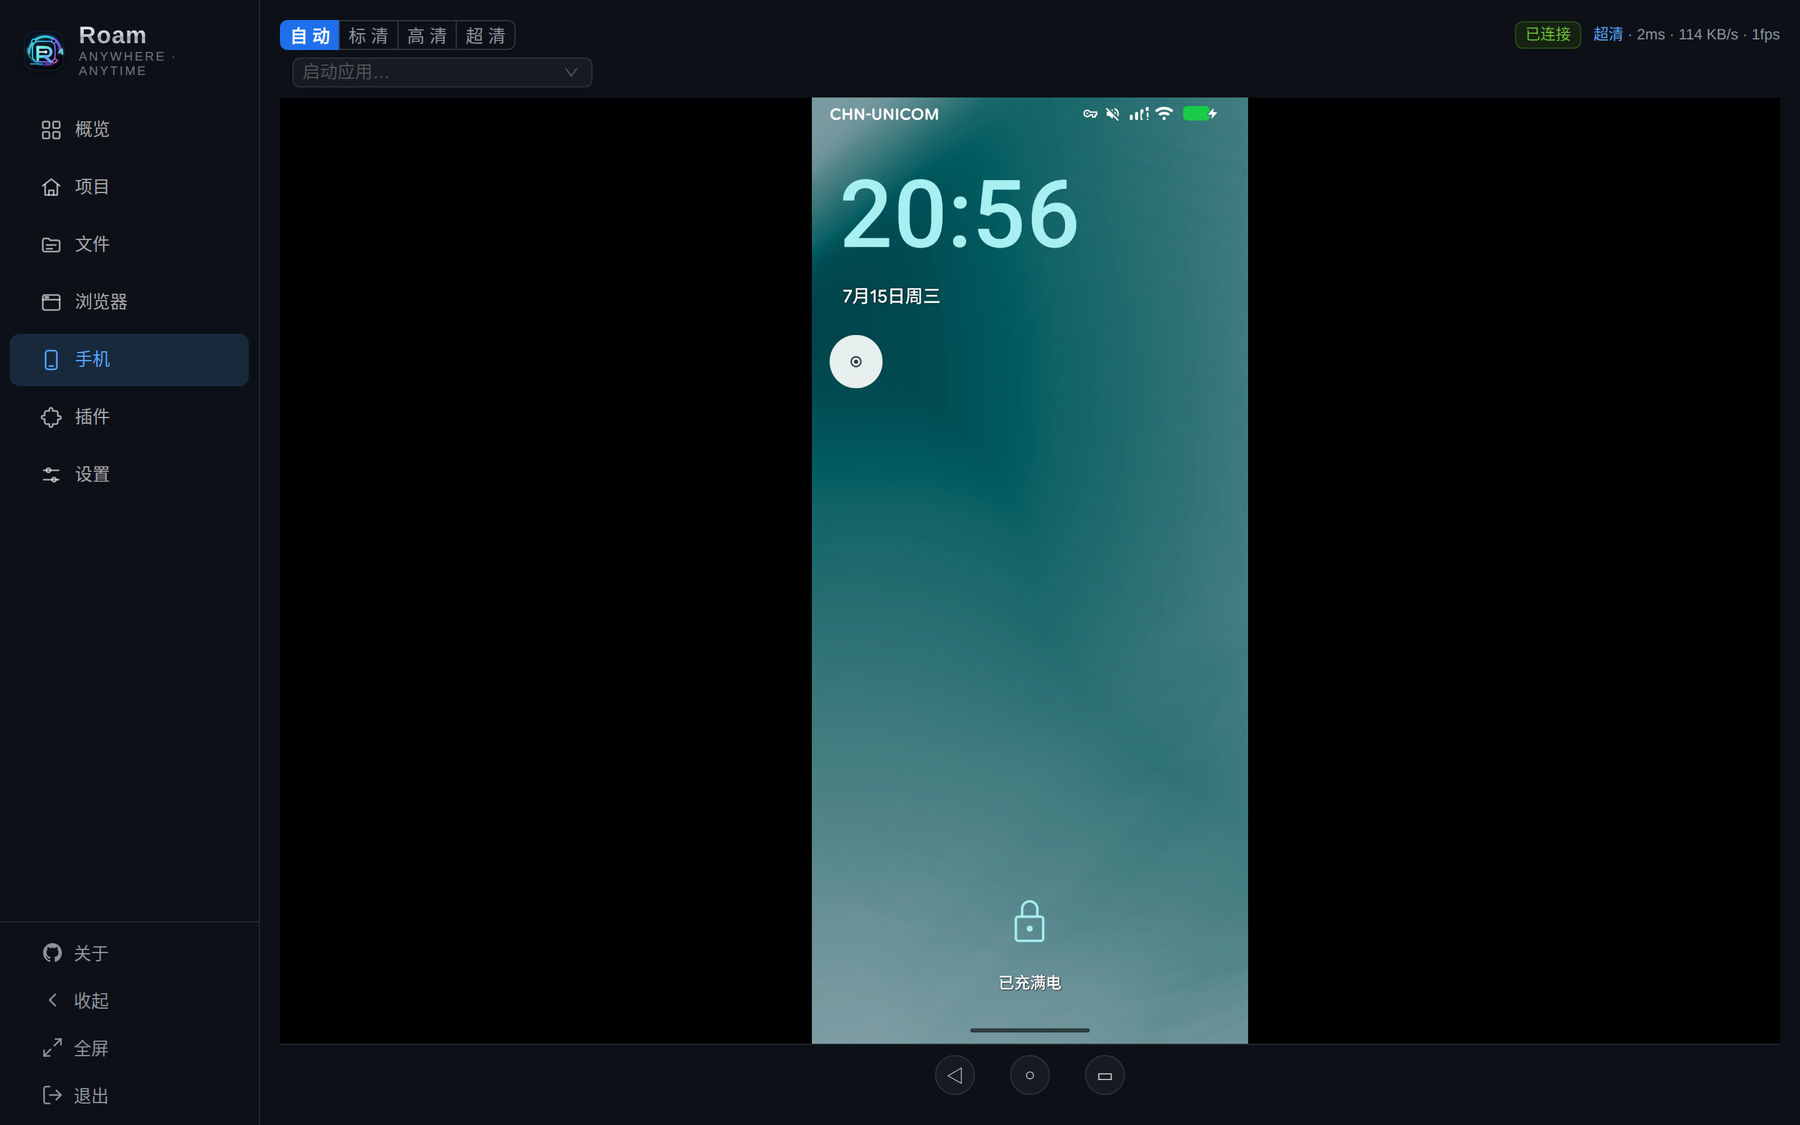
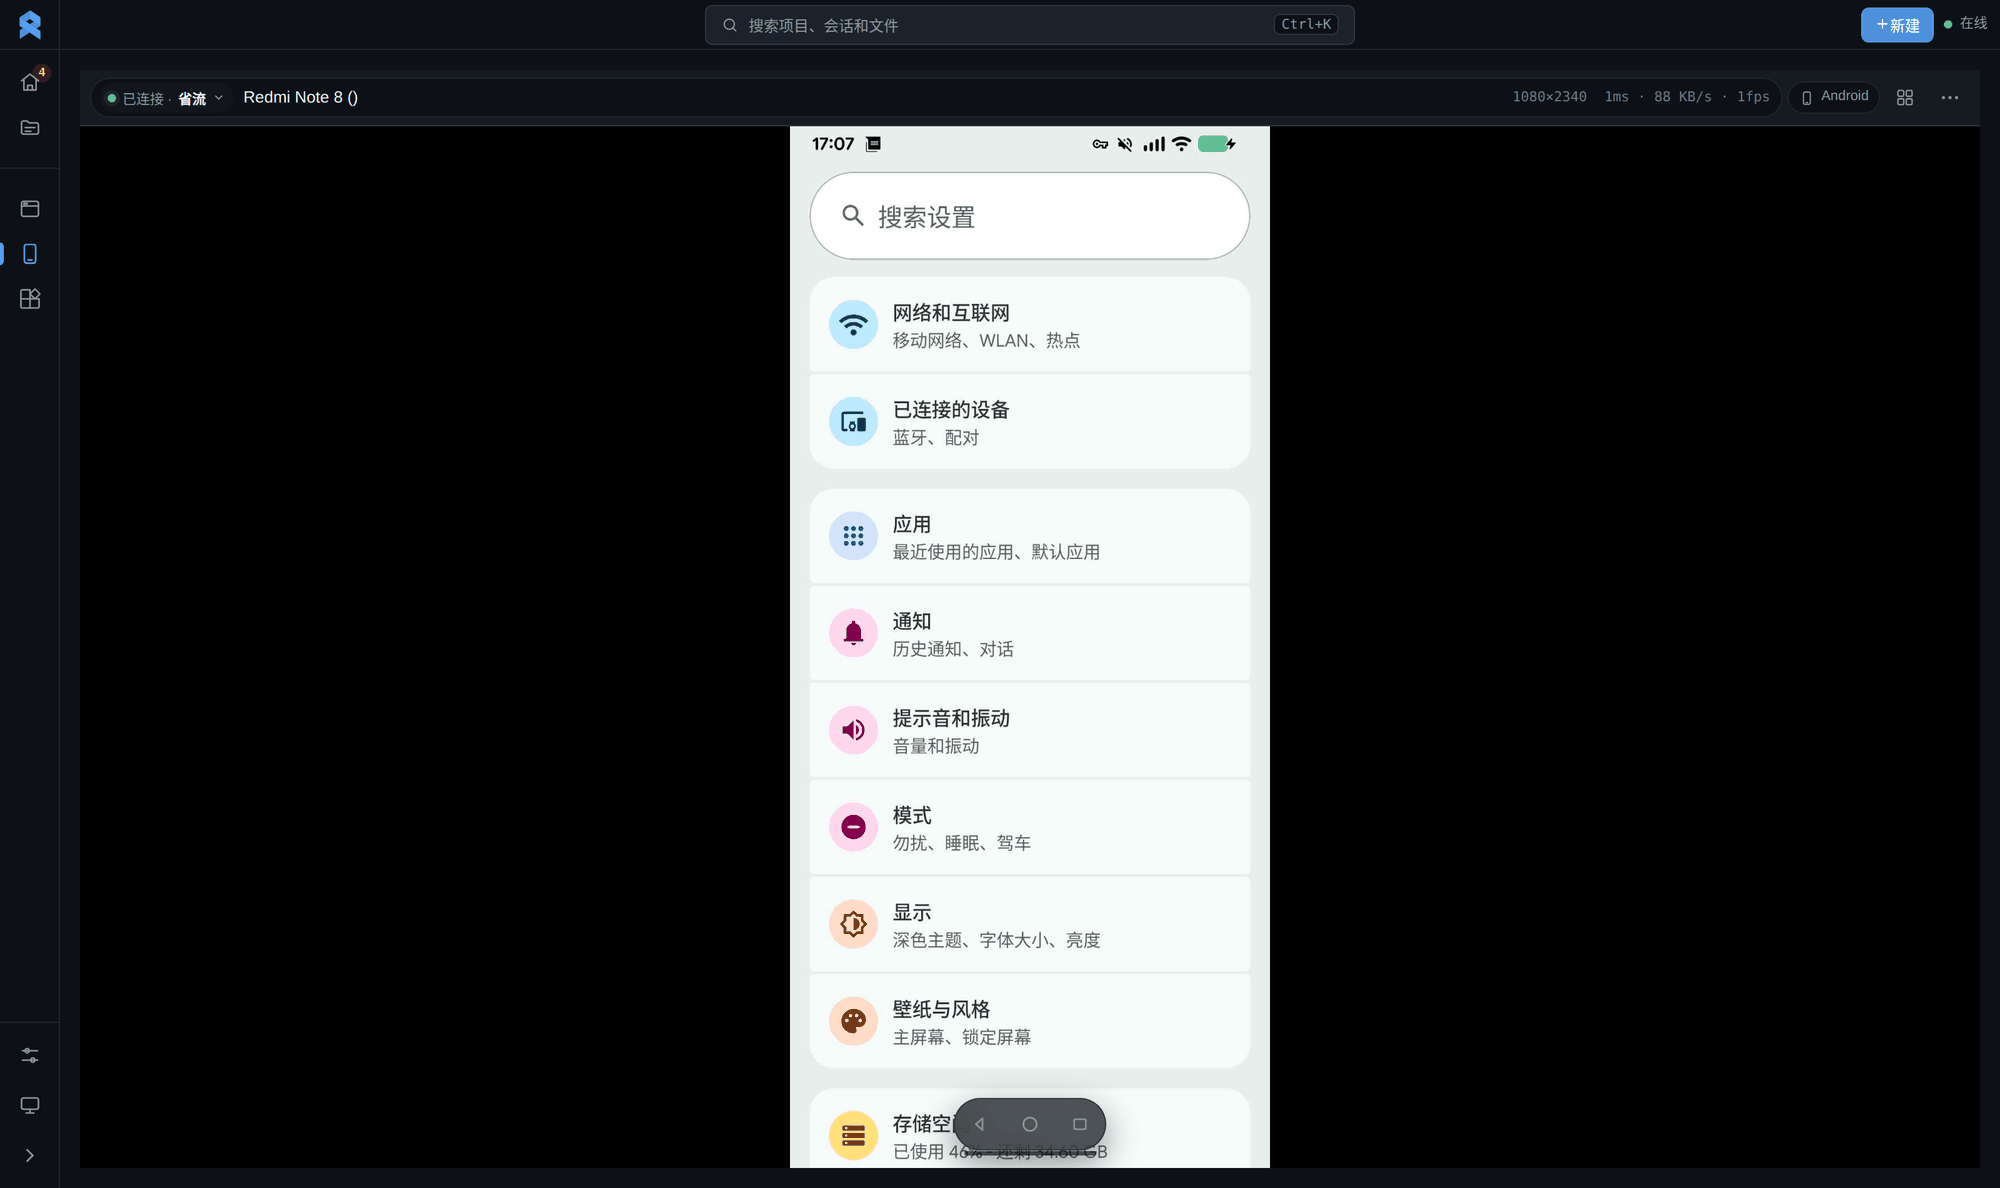
docs: README 大改 —— 按现在的系统重写 + 全部截图重拍 (#202)
* docs: README 大改 —— 按现在的系统重写 + 全部截图重拍

原来那版 README 停在 7 月 21 日：截图是三周前的界面，而这三周里工作台、
对话渲染、终端标签、设置页、手机底栏全重做过一遍；更要紧的是**多机**
（#187/#199/#200/#201）在 README 里一个字都没有。

- 截图 24 张全部重拍，中英各一套，1:1 真实数据：三个 demo 仓库 + 真的
  Claude Code / Codex 在里面干活（对话图里那份 diff 和测试结果是真跑出来的）。
  新增 6 个页面：工作台、Agent 对话、中心页、设置、文件工作区、手机会话坞。
- 新增「不止一台机器」一节：中心是同一个二进制的另一种模式，机器出站拨号
  所以 NAT 后面不用做端口转发，附两段最小 config.yaml。
- 「读 Agent 而不是读终端」写进核心能力——这是这三周最大的体验变化。
- 安全一节补上接入令牌的一次性与哈希存储、诊断口只绑回环。
- 删掉 project.*.png（已被 workbench.* 取代）。
- 图做了 256 色量化：13.7MB → 5.1MB，UI 平色块看不出差别。

截图取自隔离的 demo 实例（独立 ROAM_HOME + 独立 tmux socket + 造出来的
shop-api/web-console/etl-pipeline 三个仓库），不含任何真实项目信息。

* docs: 截图改用仓库内相对路径，不走 jsDelivr

jsDelivr 的 @main 链接有两个坑：新加的图在合并前一直 404；沿用旧文件名的
11 张（hero/terminal/swarm/browser/phone/mobile-*）即使合并了也会继续吐
7 月那批旧图——边缘缓存 s-maxage=43200（12 小时）、浏览器 max-age 7 天，
页面会新旧混排。

相对路径由 GitHub 直接从当前提交取图，改一次生效一次，也不用再记得去 purge。

diff --git a/README.md b/README.md
@@ -2,47 +2,47 @@
 
 **English** | [Simplified Chinese](README.zh-CN.md)
 
-> **Turn your development machine into an always-on AI coding workstation.**
+> **Turn your development machines into an always-on AI coding workstation.**
 
-**Roam** lets you **connect back to your own development machine from anywhere,
+**Roam** lets you **connect back to your own development machines from anywhere,
 at any time, using a phone, tablet, or laptop.** You can keep coding, run tests,
 watch logs, debug in a browser, and supervise Claude Code, Codex, or other AI
-coding agents while the real work continues on the development machine.
+coding agents while the real work continues on the machine that owns it.
 
 It solves a concrete problem: **complex development work should not be broken
 apart by your device, network, or schedule.** Your code, terminals, dev
 services, browser, and agents all keep running on the development machine. You
 can switch devices, disconnect, leave your desk, and come back to the same
-working scene. Unless you close them intentionally, the work on the development
-machine does not disappear because a local terminal exited, a browser tab
-closed, or a laptop lid shut.
+working scene. Unless you close them intentionally, the work does not disappear
+because a local terminal exited, a browser tab closed, or a laptop lid shut.
 
 **Roam at a glance:**
 
 - **Everything is organized by project**: each repository becomes a mission
   control with its tasks, worktrees, agent formations, and activity — the
-  overview is a battle map of what needs you across all projects.
+  workbench is a battle map of what needs you across all projects.
 - **Remote development without losing the scene**: check progress from a phone,
   add instructions from a tablet, take over coding from a laptop, while the
   working context stays on the development machine.
 - **Long tasks keep running**: tests, builds, migrations, logs, and debugging
   sessions survive lid closes, network drops, and device changes.
-- **The workspace stays alive**: terminals, services, browser state, and agent
-  conversations remain on the development machine unless you close them.
-- **AI agents become manageable**: describe a task on the project page and an
-  agent starts working in an isolated worktree; Claude Code, Codex, and others
-  can be monitored and given follow-up instructions at any time.
+- **AI agents become manageable**: describe a task and an agent starts working
+  in an isolated worktree; watch it as a terminal or as a rendered conversation,
+  and send follow-ups from any device.
 - **Complex work can be orchestrated**: race two agents on the same task, or
   split a goal across a swarm with dependencies, a board, and a shared feed.
+- **More than one machine**: a laptop, a workstation, and a Jetson can all sit
+  behind one console — switch between them from the same window, and one page
+  tells you whether they are all healthy.
 
-Roam is not another cloud IDE. It connects to your real development machine and
+Roam is not another cloud IDE. It connects to your real development machines and
 puts projects, terminals, browser, files, tasks, and AI agents into a remotely
 controllable workspace. What you see is a console; behind it is still the
 development environment and toolchain you already use.
 
-![Roam — the same development machine, from a laptop and from a phone](https://cdn.jsdelivr.net/gh/ybz21/Roam@main/docs/screenshots/hero.en.png)
+![Roam — the workbench on the left, a live Claude Code session on the right](docs/screenshots/hero.en.png)
 
-<sub>Remote access to one development machine: the desktop console and the phone show the same projects, running tasks, and live agent state.</sub>
+<sub>One window: what needs you across every project, and the agent that is working right now.</sub>
 
 ## Core Capabilities
 
@@ -55,68 +55,93 @@ development environment and toolchain you already use.
 - **Any device is the same desk**: open the Web console from a phone, tablet, or
   laptop and land back in the exact project you left — zero install, no native
   app to update.
-- **Long tasks don't need you watching**: builds, migrations, log tailing, and
-  agent runs keep going in the background; the overview shows which project
-  needs input and which is still grinding.
-- **Describe a task, an agent takes it**: type what you want on the project
-  page, and Claude Code or Codex starts in an isolated worktree on its own
-  branch — race two agents on the same task and keep the better result.
+- **Describe a task, an agent takes it**: type what you want, and Claude Code or
+  Codex starts in an isolated worktree on its own branch — race two agents on the
+  same task and keep the better result.
+- **Read agents, don't decode them**: a running Claude Code or Codex session can
+  be read as a real conversation — messages, diffs, and folded tool runs — or as
+  the raw terminal, whichever you need at that moment.
 - **Formations split one goal across many hands**: hand the API to one member,
   the frontend to another, tests to a third — a shared board and message feed
   keep them in sync, and dependencies unlock the next step automatically.
-- **The debugging browser lives on the dev machine too**: login state,
-  screenshots, and repro flows stay put, so remote UI debugging picks up right
-  where it was.
+- **The debugging browser and a real phone live on the dev machine too**: login
+  state, screenshots, and repro flows stay put, so remote UI debugging picks up
+  right where it was.
 - **Built for humans and agents to share one workspace**: take over from the Web
   console by hand, or let agents read state, collect output, and keep pushing.
 
 ## Screenshots
 
-**A project is mission control.** Describe a task at the top and an agent starts
-in an isolated worktree; below it, every running task with its agent, diff
-count, and state — plus Worktree, Formations, and Activity tabs for the same
-repository.
+**The workbench answers one question: what needs me?** Projects that are waiting
+on you come first, each with its running tasks, worktree count, and swarms —
+then recent activity across every repository.
 
-![Project page: task launcher, running agents, worktrees, and formations](https://cdn.jsdelivr.net/gh/ybz21/Roam@main/docs/screenshots/project.en.png)
+![Workbench: what needs you, per-project tasks, and recent activity](docs/screenshots/workbench.en.png)
 
-**One view for the agent, its terminal, and the file tree.** Watch Claude Code or
-Codex work, browse and open files beside it, and type on the mobile key bar when
-you're on a phone.
+**Read the agent, not the terminal.** The same Claude Code or Codex session can
+be rendered as a conversation: messages, code blocks, diffs, and folded tool runs,
+with a status bar for mode, context use, and elapsed time — and a box to reply in.
 
-![Terminal with a running agent and the file tree](https://cdn.jsdelivr.net/gh/ybz21/Roam@main/docs/screenshots/terminal.en.png)
+![A Claude Code session rendered as a conversation](docs/screenshots/chat.en.png)
 
-**A formation, at a glance.** Launched from the project's Formations tab: a live
-topology of every member, a shared collaboration wall (plaza), a drag-to-flow
-board, and an inbox of items waiting for review — a goal split across agents
-stays legible.
+**Or take the raw terminal, because it is a real tmux session.** Full TUI
+fidelity, tabs that persist per machine, a file drawer and Git panel one click
+away, and — on a phone — a key bar and voice input.
 
-![Swarm dashboard: topology, plaza, and board](https://cdn.jsdelivr.net/gh/ybz21/Roam@main/docs/screenshots/swarm.en.png)
+![The same session as a live terminal, with the toolbar and mobile key bar](docs/screenshots/terminal.en.png)
+
+**A formation, at a glance.** A live topology of every member, a shared
+collaboration wall, a drag-to-flow board, and an inbox of items waiting for
+review — a goal split across agents stays legible.
+
+![Swarm dashboard: topology, plaza, and board](docs/screenshots/swarm.en.png)
+
+**Many machines, one console.** The hub page says in one line whether the hub is
+healthy, lists every machine with its latency, CPU, memory, and session count,
+and keeps a log of what happened lately — who dropped, who came back, and how
+long they were gone.
+
+![Hub page: hub health, machines, and the recent event log](docs/screenshots/hub.en.png)
+
+**Settings you can actually find things in.** Search across every setting by
+name, description, or key; categories are grouped by scope — what follows you
+between machines, what belongs to this machine, and what applies to the whole
+cluster.
+
+![Settings: search, category tree, and one page per category](docs/screenshots/settings.en.png)
+
+**Browse and edit files without leaving the console.** Folders and files in two
+resizable columns, a preview on hover, and drag a path straight into a terminal
+or an agent prompt.
+
+![File workspace: folder column, file column, and preview](docs/screenshots/files.en.png)
 
 **Drive a real browser from the console.** The dev machine's Chrome is mirrored
 into the console — open tabs, navigate, click, and type. Debug a web app, keep a
 login session, or let an agent reproduce a flow, all on the development machine.
 
-![Browser mirror: a live Chrome tab driven from the console](https://cdn.jsdelivr.net/gh/ybz21/Roam@main/docs/screenshots/browser.en.png)
+![Browser mirror: a live Chrome tab driven from the console](docs/screenshots/browser.en.png)
 
 **Control a real phone from the console.** Mirror an Android device over adb — the
 live screen, streaming stats, and remote nav bar — to reproduce mobile flows or
 check an app right next to your terminals.
 
-![Phone mirror: a live Android device inside the console](https://cdn.jsdelivr.net/gh/ybz21/Roam@main/docs/screenshots/phone.en.png)
+![Phone mirror: a live Android device inside the console](docs/screenshots/phone.en.png)
 
 ## Mobile: work from anywhere
 
 **Your whole workspace fits in a phone.** Open the console in any mobile browser —
 no app to install — and land back in the same projects, tasks, and agents.
-Check progress on the train, nudge an agent from the couch, take over from a café.
+A bottom bar carries the five places you actually go, and a session dock keeps the
+running agent one tap away.
 
-![Roam on a phone: overview battle map and a project page](https://cdn.jsdelivr.net/gh/ybz21/Roam@main/docs/screenshots/mobile-office.en.png)
+![Roam on a phone: the workbench and the session dock](docs/screenshots/mobile-office.en.png)
 
-**Talk to an agent from your phone.** Open a session and chat with Claude Code or
-Codex right in the terminal — the mobile key bar and send button let you type
-follow-ups, review the reply, and keep the task moving without a laptop.
+**Talk to an agent from your phone.** Open a session and read it as a
+conversation — the same cards, diffs, and status bar as the desktop — then type or
+dictate a follow-up and keep the task moving without a laptop.
 
-![Chatting with Claude Code on a phone](https://cdn.jsdelivr.net/gh/ybz21/Roam@main/docs/screenshots/mobile-chat.en.png)
+![Chatting with Claude Code on a phone](docs/screenshots/mobile-chat.en.png)
 
 ## Why It Exists
 
@@ -130,6 +155,8 @@ starts to hit many breakpoints:
 - long tasks should keep running while you are offline
 - you need to quickly understand, per project, what is still running and what
   is waiting for you
+- and once there is more than one machine, you need to know which one a session
+  is even on
 
 Roam treats the development machine as the single real working scene. The server
 keeps work alive, and the Web console lets you reconnect from any device. When
@@ -142,12 +169,12 @@ agent orchestration.
 2. Open the Web console from a phone, tablet, or another computer.
 3. Open a project, enter an existing task or terminal, and continue the
    previous working scene.
-4. Describe a new task on the project page and let Claude Code, Codex, or
-   another agent run it in an isolated worktree on the development machine.
+4. Describe a new task and let Claude Code, Codex, or another agent run it in an
+   isolated worktree on the development machine.
 5. Leave the browser or close your local terminal; terminals, services, logs,
    and agents keep running on the development machine.
-6. Come back later from any device: the overview shows which projects need
-   input, and each project page shows where its tasks got to.
+6. Come back later from any device: the workbench shows which projects need
+   input, and each project shows where its tasks got to.
 
 Roam is not mainly "one more terminal tool." It turns the development machine
 into a continuously available workspace. The terminals, running services,
@@ -201,10 +228,11 @@ cd Roam
 runs already-built artifacts without recompiling.
 
 On first launch there is **no password**: open the Web console in a browser and
-set one before entering. Change it later under **Settings → Change password**, or
-edit `~/.roam/config.yaml`. By default the console listens on `0.0.0.0:13579`
-(self-signed HTTPS), so devices on the same LAN can reach it. For remote access,
-prefer Tailscale, Cloudflare Tunnel, SSH forwarding, or frp.
+set one before entering. Change it later under **Settings → Security**, or edit
+`~/.roam/config.yaml`. By default the console listens on `0.0.0.0:13579`
+(self-signed HTTPS, because microphone and clipboard need a secure context), so
+devices on the same LAN can reach it. For remote access, prefer Tailscale,
+Cloudflare Tunnel, SSH forwarding, or frp.
 
 Exposing Roam through **frp with HTTPS** so mobile voice input and clipboard
 continue to work through the tunnel is covered in
@@ -212,6 +240,48 @@ continue to work through the tunnel is covered in
 
 Full installation, deployment, remote access, and command-line automation notes
 live in **[docs/install/](docs/install/)**.
+
+## More Than One Machine
+
+A single Roam is a complete product; you only need this section when you have a
+second machine. Every machine keeps running its own sessions, agents, and files —
+the hub only routes to them, so nothing about a machine depends on the hub being
+alive except reaching it from outside.
+
+**The hub** is the same binary started in hub mode. It runs no sessions, no
+agents, and no browser — just the registry, the console, and the tunnel:
+
+```yaml
+# ~/.roam/config.yaml on the hub
+cluster:
+  mode: hub
+  public_url: https://roam.example.com    # the address machines dial back on
+```
+
+**Each machine** dials out to the hub with a one-time enrollment token (issue it
+under **Settings → Cluster**), then swaps it for a long-lived credential:
+
+```yaml
+# ~/.roam/config.yaml on a machine
+cluster:
+  hub: https://roam.example.com
+  token: <one-time enrollment token>
+  name: workstation                        # display name, defaults to hostname
+```
+
+Because the tunnel is outbound, a machine behind NAT or a home router needs no
+port forwarding. From then on:
+
+- the machine switcher in the console (and under **More** on a phone) moves the
+  whole workspace to another machine — terminal tabs are remembered per machine,
+  so switching back lands you on the same sessions;
+- the **hub page** shows hub health, every machine's latency, CPU, memory, and
+  session count, plus an event log of drops and reconnects;
+- a machine whose numbers keep climbing raises a dot on the navigation rail —
+  the health check watches the *shape* of the curve rather than absolute
+  thresholds, so a bigger machine doesn't false-positive;
+- **Full monitor** on any machine opens the same monitoring panel the
+  `roam.host-monitor` plugin draws locally — CPU, GPU, disk, and network history.
 
 ## For Claude Code / Codex
 
@@ -222,12 +292,12 @@ tasks never step on each other. You can also race Claude Code and Codex on the
 same task and keep the better result, or run any tool directly inside a
 persistent Roam terminal. Execution, output, context, and the follow-up channel
 all stay on the development machine — when you return from a phone or tablet,
-you can inspect where it got to and add more instructions.
+you can read where it got to and add more instructions.
 
-For more complex work, launch a formation from the project's Formations tab: a
-swarm splits the goal across multiple members — one handles the API, one the
-frontend, one tests. A shared board and message feed synchronize progress, and
-dependencies unlock the next step when earlier work is done.
+For more complex work, launch a formation: a swarm splits the goal across
+multiple members — one handles the API, one the frontend, one tests. A shared
+board and message feed synchronize progress, and dependencies unlock the next
+step when earlier work is done.
 
 ## Command Line And Automation
 
@@ -239,6 +309,9 @@ console in most cases.
   and machine-readable state.
 - `chrome`: drives Chrome on the development machine for UI debugging,
   screenshots, form flows, and automated validation.
+
+Plugins extend the console itself — `roam.host-monitor` contributes the resource
+monitor, `roam.cron` adds scheduled prompts with its own configuration panel.
 
 Command details are intentionally not expanded on the home page, so the README
 does not become a tool manual. When needed, see
@@ -287,6 +360,9 @@ CLI smoke test:
 TTMUX=./ttmux bash tests/test_ttmux.sh
 ```
 
+Agent-facing rules for this repository (design system, i18n, quality gates) live
+in **[AGENTS.md](AGENTS.md)** — the single source both Codex and Claude Code read.
+
 ## Security Notes
 
 Roam can control your development machine's terminal, files, browser, and
@@ -297,6 +373,10 @@ agents. Treat it as close to SSH access. For real deployments:
 - Prefer Tailscale, Cloudflare Tunnel, SSH forwarding, or frp for external
   access.
 - Do not expose the Web console port directly to the public Internet.
+- Enrollment tokens are one-time and expire (30 minutes by default); machines
+  keep a long-lived credential afterwards, and the hub stores only its hash.
+- The diagnostic endpoint (`ROAM_PPROF`) is off by default and refuses to bind
+  anything but loopback.
 - Run it only on machines and accounts you trust.
 
 ## Docs
@@ -304,7 +384,7 @@ agents. Treat it as close to SSH access. For real deployments:
 - [docs/features.md](docs/features.md) - full feature list
 - [docs/install/](docs/install/) - installation and deployment
 - [docs/design/](docs/design/) - design docs for swarm orchestration, plaza
-  boards, and Web integration
+  boards, cluster topology, and Web integration
 - [backend/README.md](backend/README.md) - backend implementation details
 
 ## License
